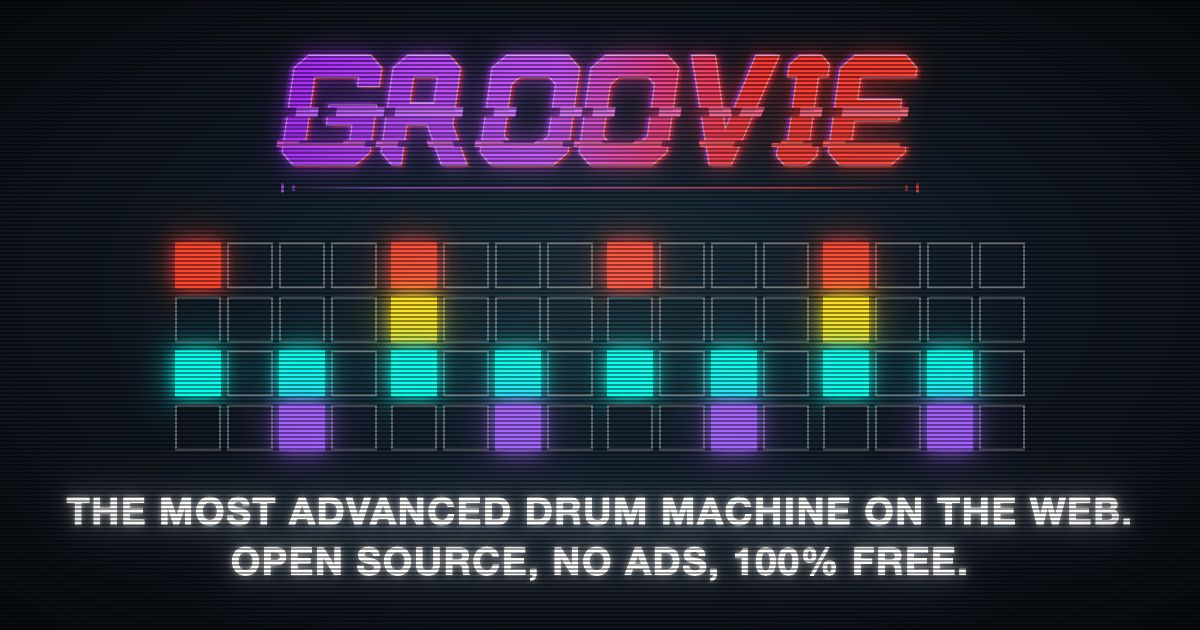
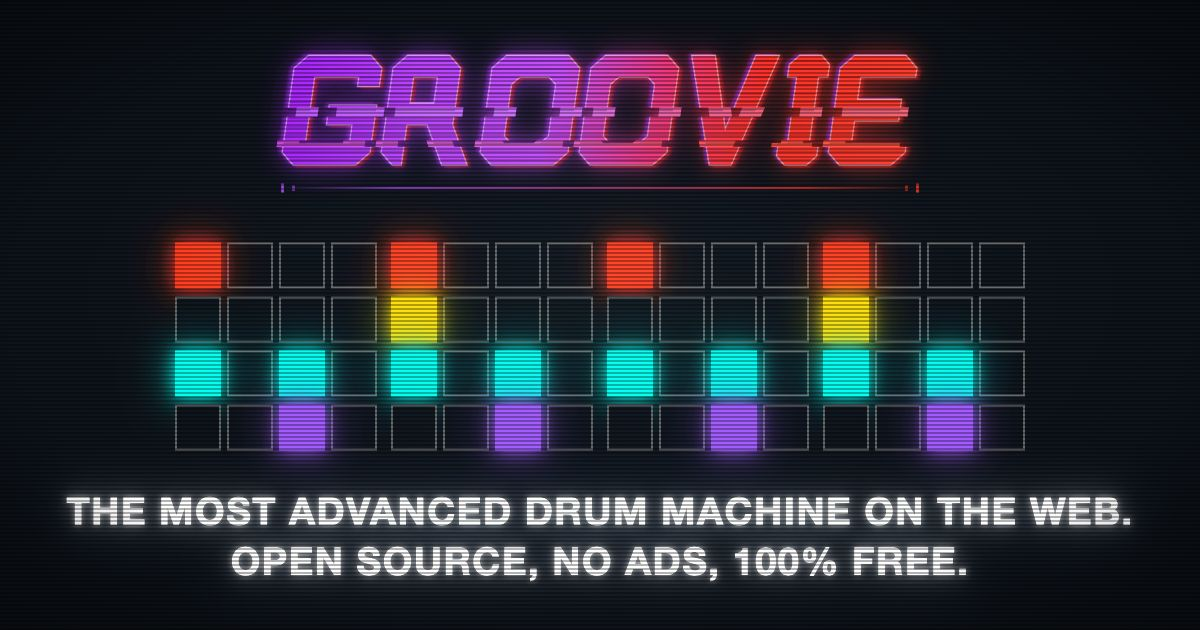
Improve og_image

diff --git a/tools/make_og_image.py b/tools/make_og_image.py
@@ -107,8 +107,24 @@ LOGO_INK_BOTTOM = 189
 # The scanlines. A dark line every SCANLINE_PITCH pixels, the way a tube draws
 # with a gap between the rows it lights. Two pixels dark in four reads as a
 # screen; anything finer turns to grey once a feed rescales the picture.
+#
+# How dark those two pixels are is a tax on the whole picture, and it is paid
+# twice. A feed does not show the picture at the size it was drawn: Facebook
+# takes it to 1000x522, and once the lines are below a pixel each they stop
+# reading as lines and just come out as a veil over everything. Taking 30
+# percent rather than 42 still reads as a tube up close and leaves the colours
+# with enough left in them to survive the rescale.
 SCANLINE_PITCH = 4
-SCANLINE_DARK = 0.42
+SCANLINE_DARK = 0.30
+
+# The wash across the face of the tube, brightest in the middle. This is a
+# screen blend, so what it really does is lift the black the picture sits on,
+# and it was doing it hard enough to be the main reason a shared card came
+# back looking washed out: the background under the logo was arriving at
+# roughly (27, 37, 47) instead of the near black it is drawn on. Enough of it
+# is kept for the middle to read as lit; the rest went.
+TUBE_GLOW_CORE = 0.07
+TUBE_GLOW_MID = 0.03
 
 
 def grid_width():
@@ -183,8 +199,10 @@ def defs_markup():
     # middle and gone by the edges, laid over everything in screen mode.
     out.append(
         '<radialGradient id="tubeGlow" cx="50%" cy="46%" r="72%">'
-        '<stop offset="0%" stop-color="#6fd8ff" stop-opacity="0.20"/>'
-        '<stop offset="45%" stop-color="#4aa6ff" stop-opacity="0.09"/>'
+        f'<stop offset="0%" stop-color="#6fd8ff" '
+        f'stop-opacity="{TUBE_GLOW_CORE}"/>'
+        f'<stop offset="45%" stop-color="#4aa6ff" '
+        f'stop-opacity="{TUBE_GLOW_MID}"/>'
         '<stop offset="100%" stop-color="#000000" stop-opacity="0"/>'
         '</radialGradient>'
     )
